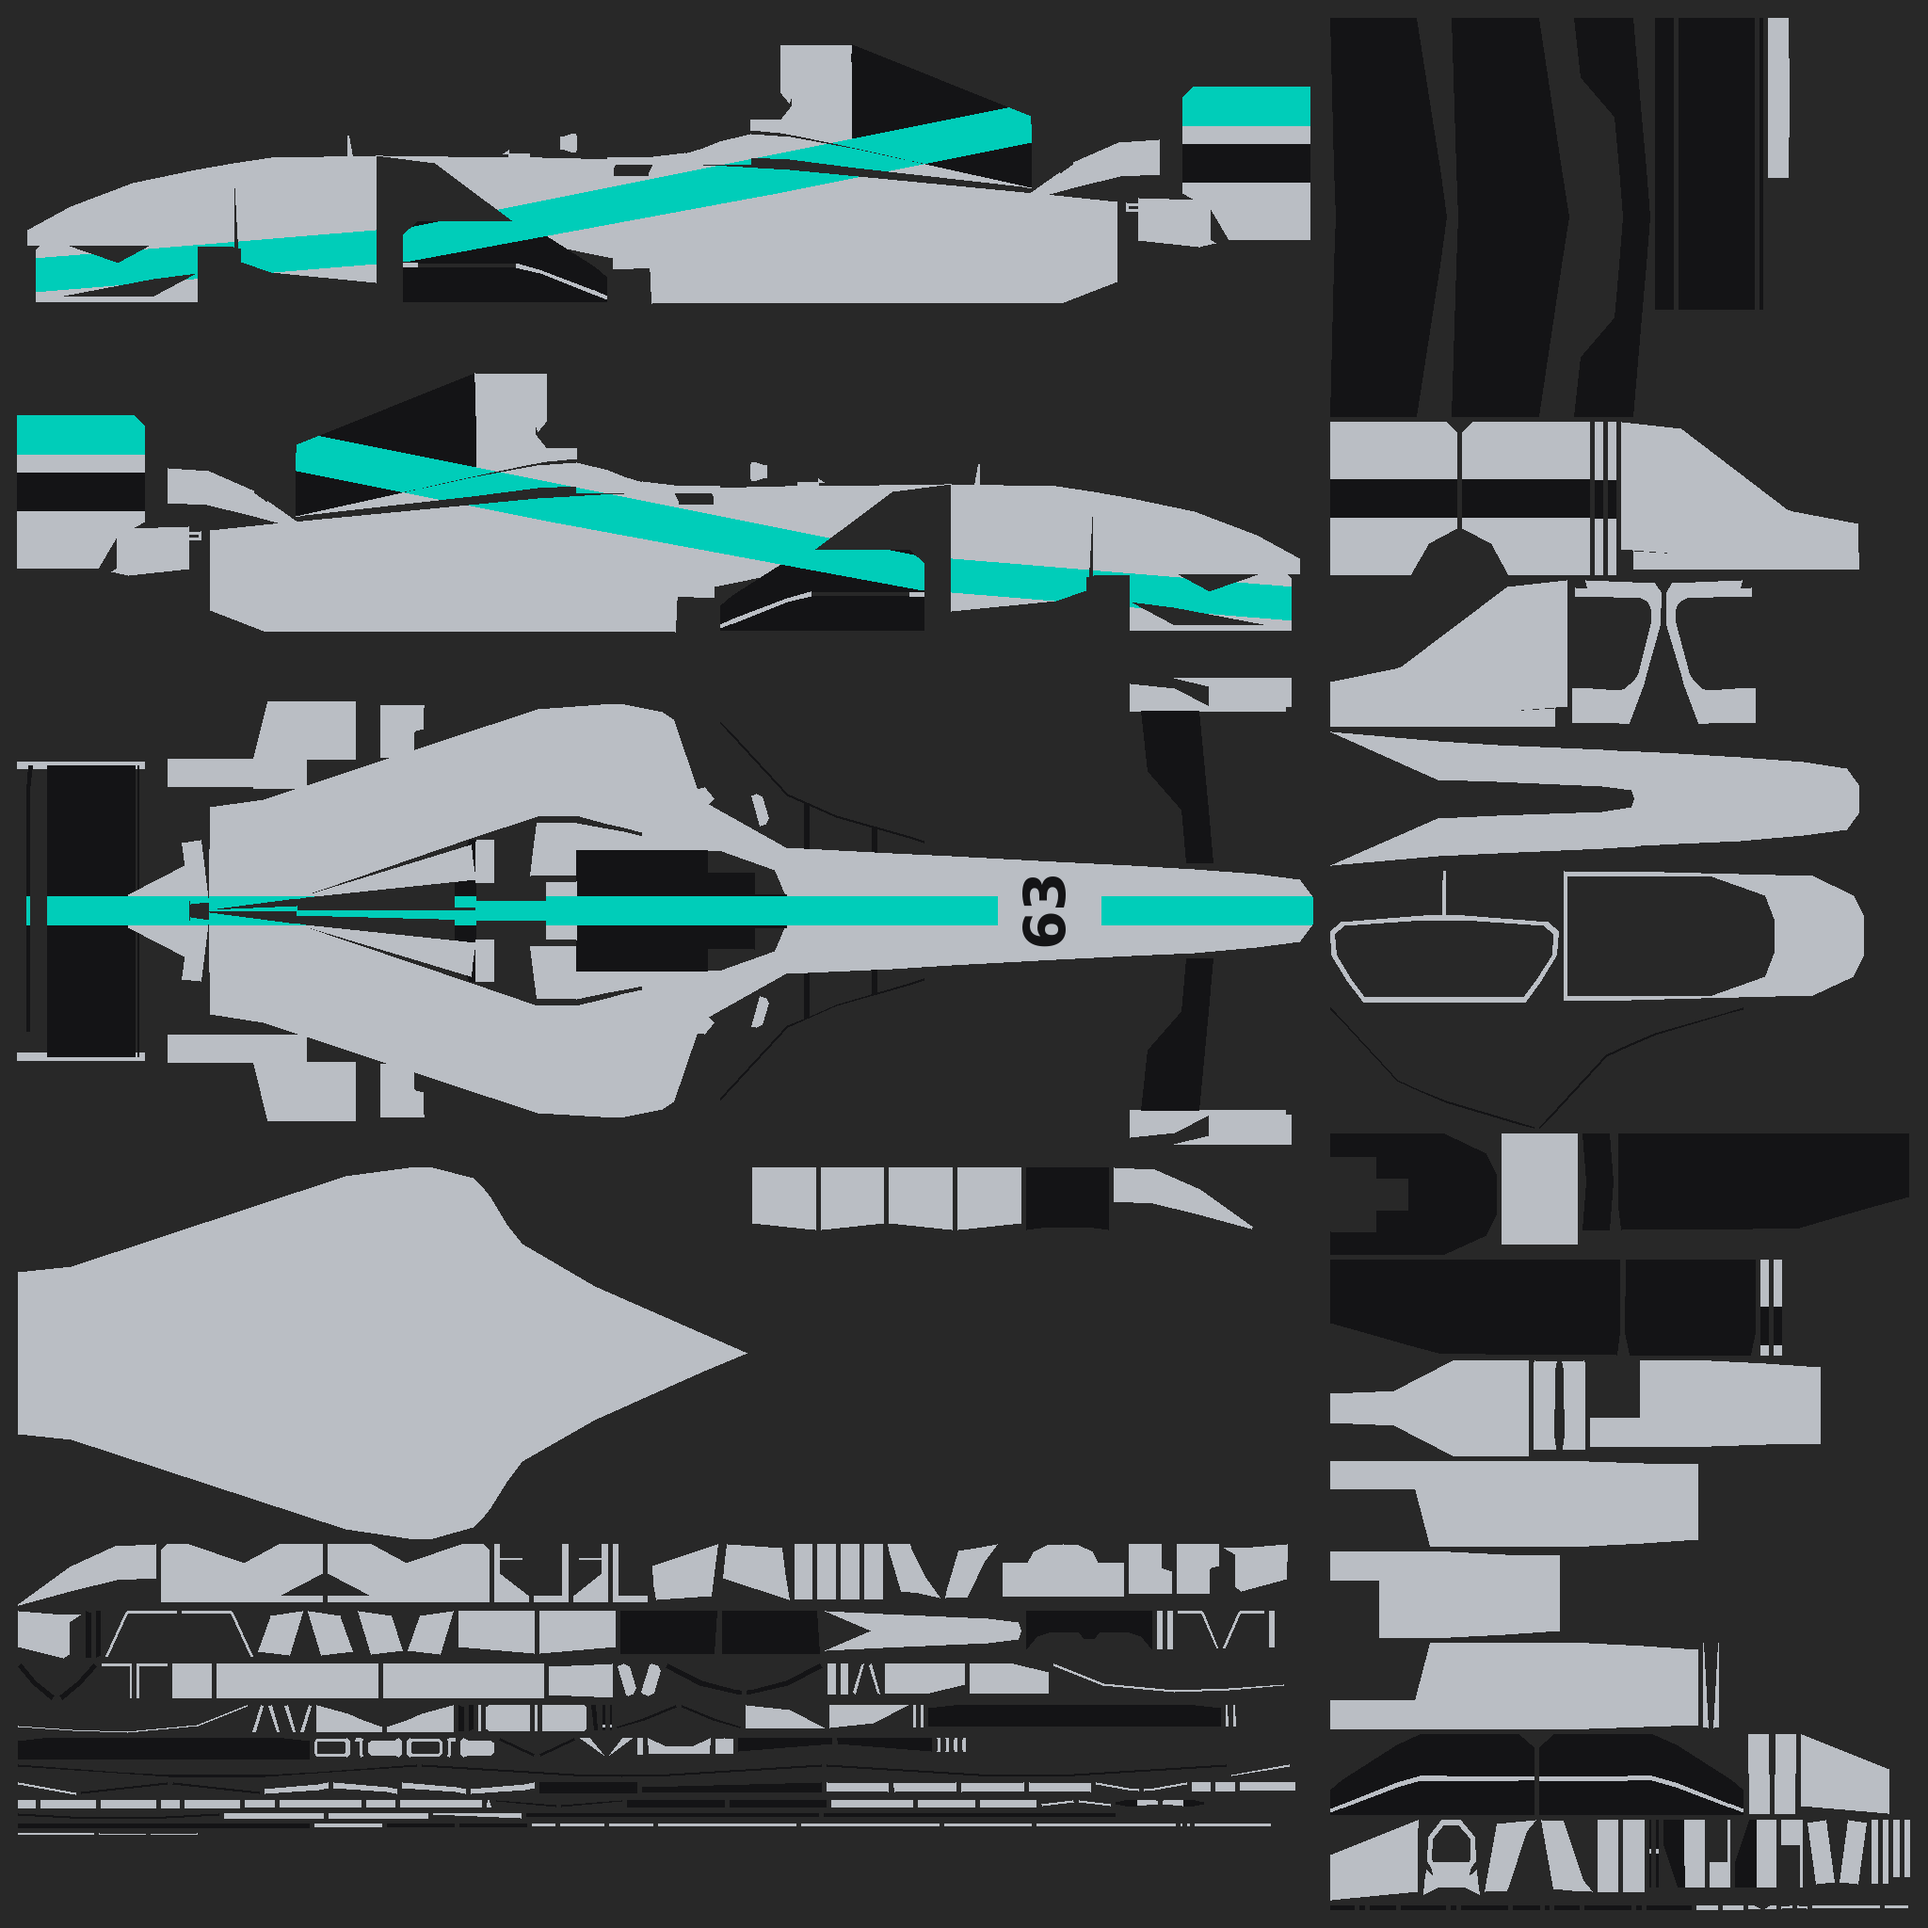
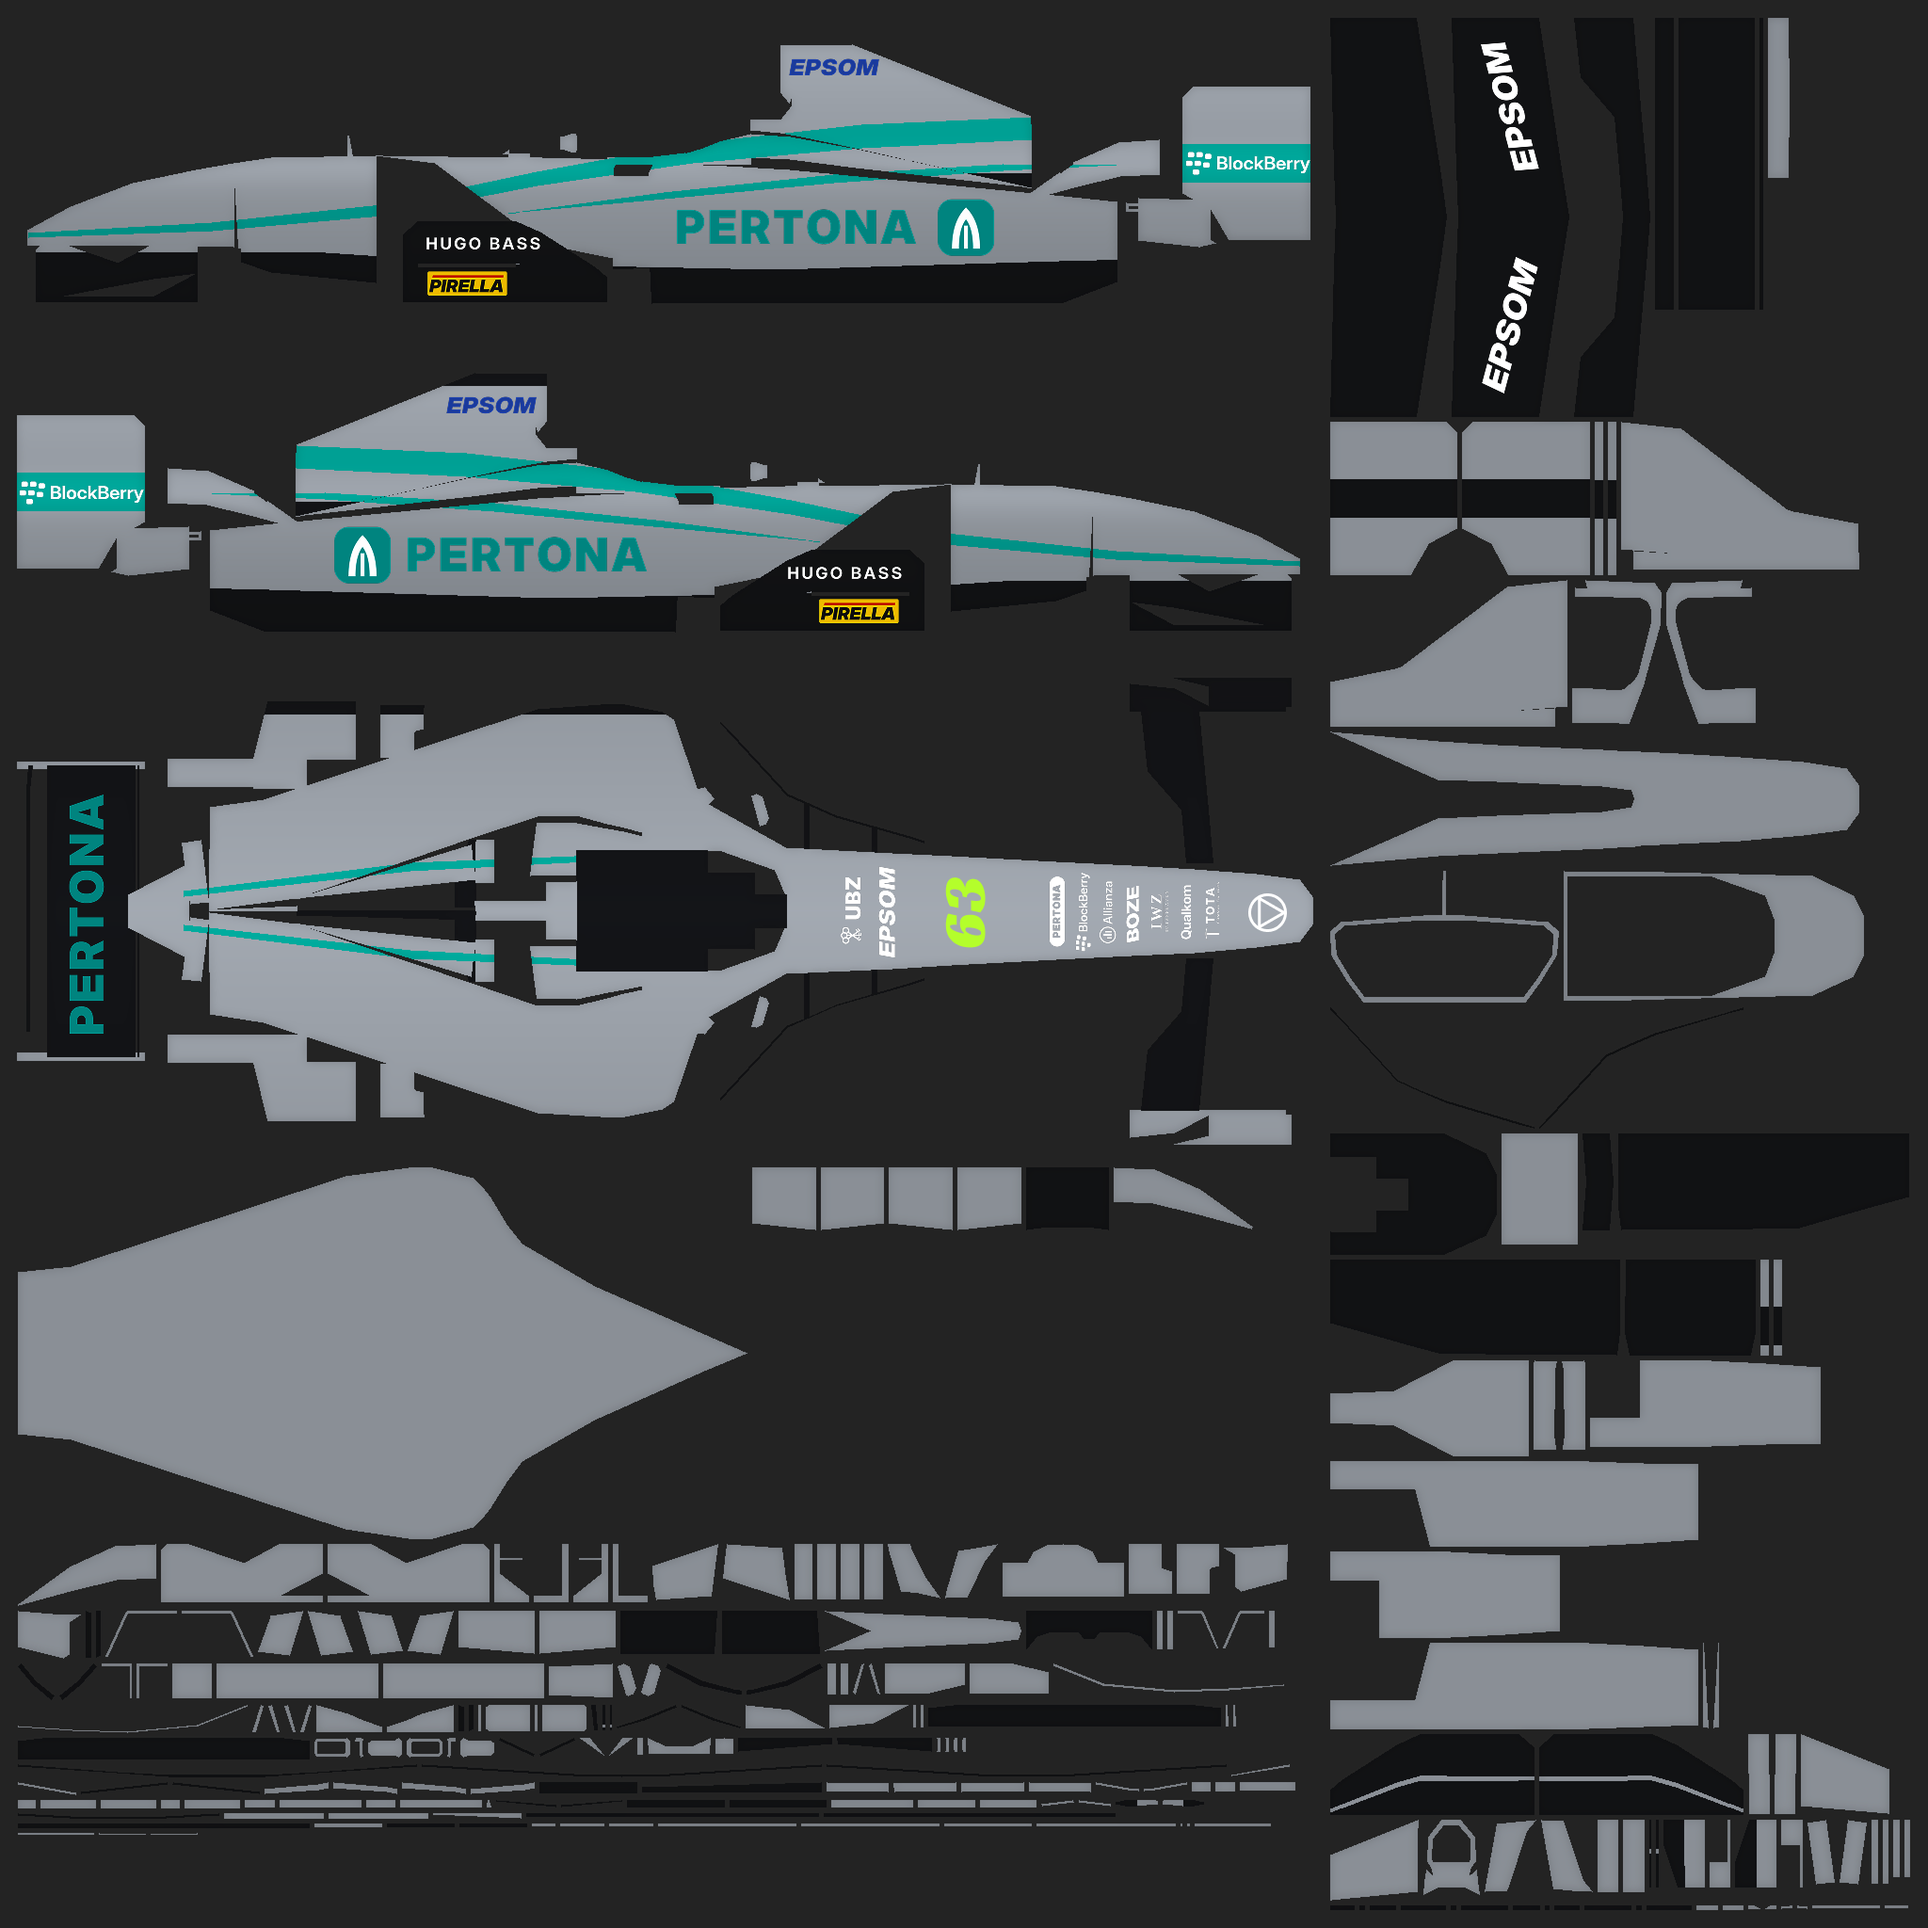
f1_gearari: sponsored Silver Arrow, Papaya and Red Ox liveries, teams renamed (#46)
* f1_gearari: sponsored Silver Arrow GP and Papaya Racing liveries

Silver Arrow GP (44, 63) gets the W06-style livery with parody sponsors,
the 44 and 63 cars hand-branded; Papaya Racing (4, 81) gets the modern
McLaren-style one. The silver car numbers are now lime green.

Claude-Session: https://claude.ai/code/session_01ArwoEGu7PUxCfpPbBfsrYD

* f1_gearari: RB1-style Midnight Energy liveries (33, 11)

Replaces the Red Blue cars from #45, as chosen in the project thread; those
images are backed up in the project assets folder.

Claude-Session: https://claude.ai/code/session_01ArwoEGu7PUxCfpPbBfsrYD

* Midnight livery: more RB1 silver and yellow, red race numbers

Silver lower body sweeping up at the bargeboard, a curved yellow nose tip and a
bigger yellow airbox, outlined red title wordmark, charging oxen on the engine
cover, nose and tip, and red 33 / 11 on the nose.

Claude-Session: https://claude.ai/code/session_01ArwoEGu7PUxCfpPbBfsrYD

* Midnight livery: rounded yellow nose tip, no logo on the tip

Claude-Session: https://claude.ai/code/session_01ArwoEGu7PUxCfpPbBfsrYD

* Midnight livery: red/white/blue pinstripes in the top view

Claude-Session: https://claude.ai/code/session_01ArwoEGu7PUxCfpPbBfsrYD

* Midnight livery: silver sidepod winglets, white-outlined red numbers

Claude-Session: https://claude.ai/code/session_01ArwoEGu7PUxCfpPbBfsrYD

* Midnight livery: every winglet texel silver, traced from the mesh
[…]

diff --git a/apps/viewer/liveries.hpp b/apps/viewer/liveries.hpp
@@ -8,7 +8,7 @@
 // number), read from assets/cars/f1_gearari/teams.json, and which slot each car in
 // the race wears. teamColor() and the car model both go through this.
 struct CarLivery {
-    std::string team;   // e.g. "Papaya Racing"
+    std::string team;   // e.g. "Papaya Masterkard F1"
     std::string key;    // base livery name, e.g. "papaya"
     std::string file;   // full path of the numbered livery PNG
     int number = 0;
